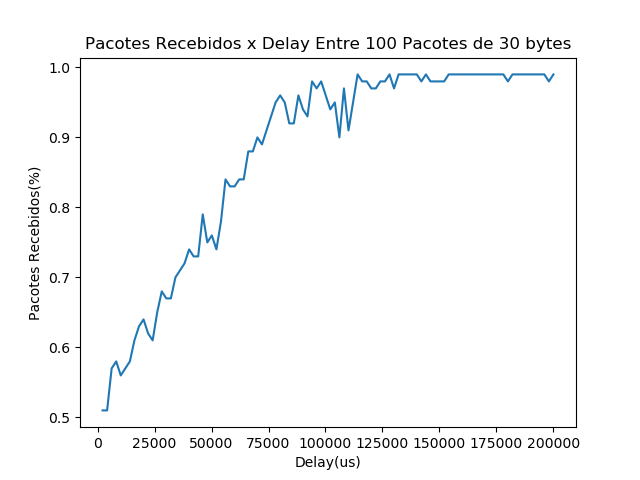
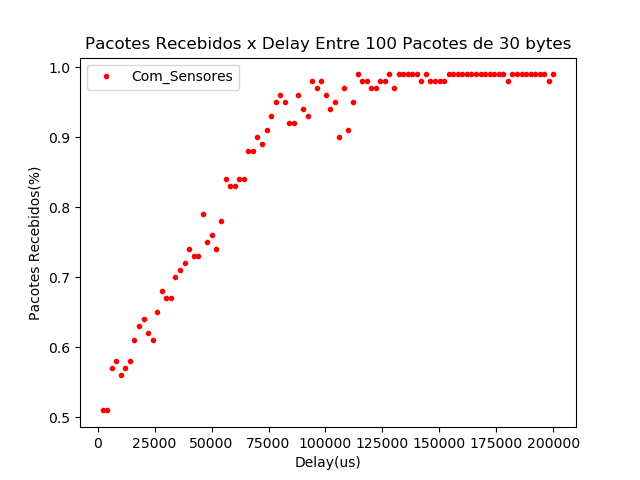
Dot Graph

diff --git a/Bluetooth/ble_comm/buildGraphsBLE.py b/Bluetooth/ble_comm/buildGraphsBLE.py
@@ -3,19 +3,17 @@ import matplotlib
 import matplotlib.pyplot as plt
 import numpy as np
 
-name = 'Com_Sensores'
-# name = 'Sem_Sensores'
+def graphAcc(x, y, y2 = None, name=None):
 
-def graphAcc(x, y, y2 = None):
     fig = plt.figure()
     ax = plt.subplot(111)
     savefig = ''
     if (y2 is None) :
-        ax.plot(x, y, label='$'+name)
+        ax.plot(x, y,'r.', label=name)
         savefig = 'img/pacotesBLE'+name+'.png'
     else:
-        ax.plot(x, y, 'r',label='Com_Sensores')
-        ax.plot(x, y2, 'b',label='Sem_Sensores')
+        ax.plot(x, y, 'r.', label='Com_Sensores')
+        ax.plot(x, y2, 'b.',label='Sem_Sensores')
         savefig = 'img/pacotesBLE.png'
 
     plt.ylabel('Pacotes Recebidos(%)')
@@ -26,17 +24,17 @@ def graphAcc(x, y, y2 = None):
     fig.savefig(savefig)
     # plt.show()
 
-def graphPyTime(x, y, y2=None):
+def graphPyTime(x, y, y2=None, name=None):
     fig = plt.figure()
     ax = plt.subplot(111)
     savefig = ''
        
     if (y2 is None) :
-        ax.plot(x, y, label='$'+name)
+        ax.plot(x, y,'r.', label=name)
         savefig = 'img/pyCaptTime'+name+'.png'
     else:
-        ax.plot(x, y, 'r',label='Com_Sensores')
-        ax.plot(x, y2, 'b',label='Sem_Sensores')
+        ax.plot(x, y, 'r.',label='Com_Sensores')
+        ax.plot(x, y2, 'b.',label='Sem_Sensores')
         savefig = 'img/pyCaptTime.png'
 
     plt.title('Tempo Decorrido de Captura x Delay Entre 100 Pacotes de 30 bytes')
@@ -47,32 +45,32 @@ def graphPyTime(x, y, y2=None):
     fig.savefig(savefig)
     plt.show()
 
-def saveToFile(nameFile, y):
-    np.save('data/'+nameFile+name+'array.npy', y)    # .npy extension is added if not given
-
 def loadFromFile(nameFile):
     d = np.load('data/'+nameFile+name+'array.npy')
     print('Reading from' + 'data/'+nameFile+name+'array.npy')
     return d
 
-
 if __name__ == "__main__":
 
-    # saveToFile('delay', delay)
-    # saveToFile('acerto', acerto)
-    # saveToFile('TempoDec', tempDec)
+    
+    name = 'Com_Sensores'
     delay = loadFromFile('delay')
     acerto = loadFromFile('acerto')
     tempDec = loadFromFile('TempoDec')
 
-
     name = 'Sem_Sensores'
-    print('sem Sensores')
-
     delaySS = loadFromFile('delay')
     acertoSS = loadFromFile('acerto')
     tempDecSS = loadFromFile('TempoDec')
 
-    # graphAcc(acerto, delay, acertoSS)
-    graphAcc(delay, acerto,  acertoSS)
-    graphPyTime(delay, tempDec, tempDecSS)
+    name = 'Todos'
+    
+    if(name == 'Com_Sensores'):
+        graphAcc(delay, acerto, name)
+        graphPyTime(delay, tempDec, name)
+    elif(name == 'Sem_Sensores'):
+        graphAcc(delay, acertoSS, name)
+        graphPyTime(delay, tempDecSS, name)
+    else:
+        graphAcc(delay, acerto, acertoSS)
+        graphPyTime(delay, tempDec, tempDecSS)
